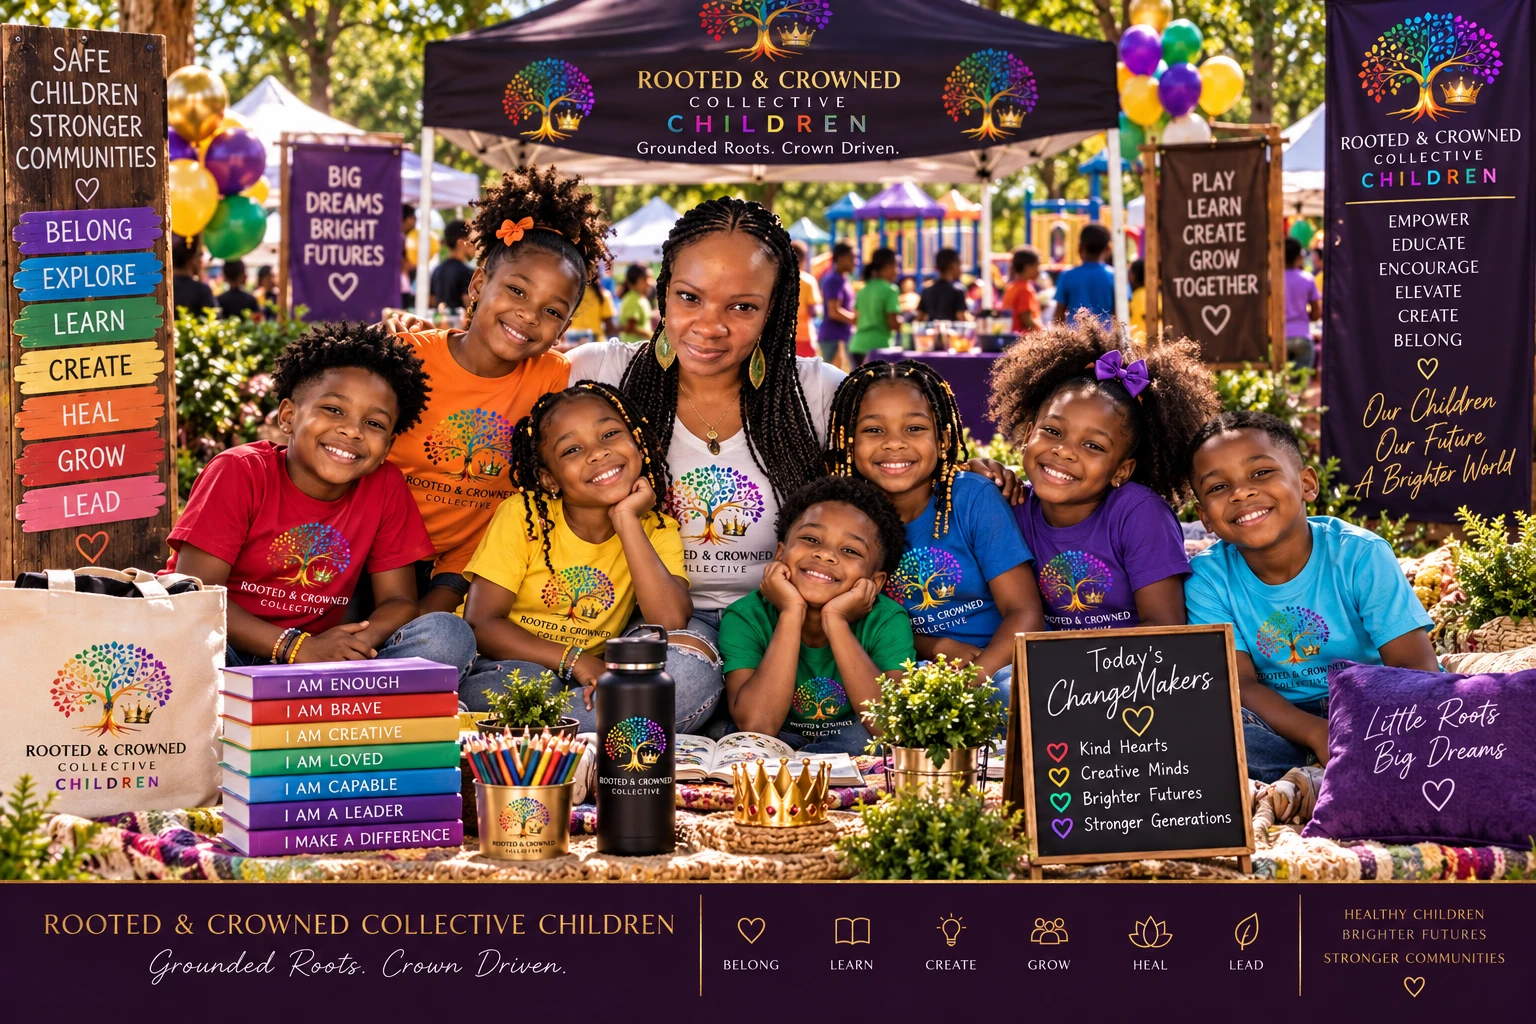
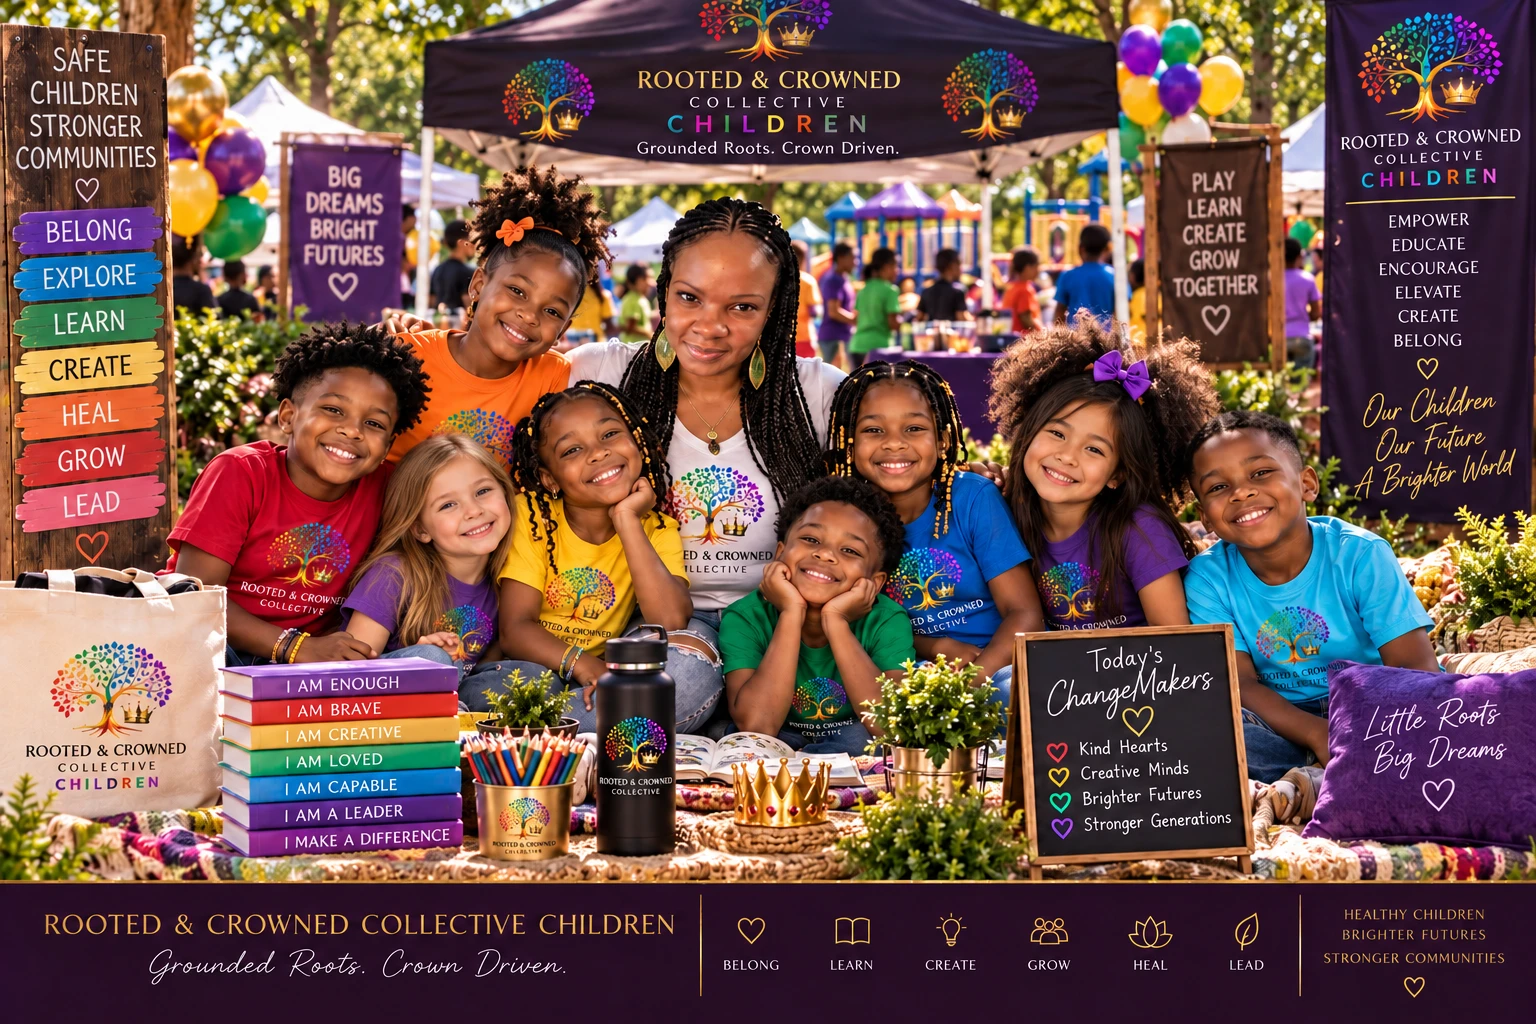
Replace Men's Collective and Children photos on Community page
Swap both branch photos for the new versions and update alt text to
match their content (Men's Collective group shot with the new shirt
slogans and banners; Children event photo with the new banners, sign,
and book stack).

diff --git a/public/index.html b/public/index.html
@@ -2058,7 +2058,7 @@ details.course-mod summary::-webkit-details-marker{display:none}
         <p class="script">Grounded Men. Crown-Driven Lives.</p>
       </div>
       <div style="display:grid;gap:22px">
-        <img class="media media--frame" src="assets/mens-collective.webp" alt="The Rooted and Crowned Collective Men's Collective: seven men laughing and talking together on a garden patio beneath banners reading Heal, Align, Build, Lead, Empower, Legacy and Stronger Men, Stronger Communities. The title reads Men's Collective, Grounded Men. Crown-Driven Lives. Below: Brotherhood, Growth, Purpose, Leadership, Financial Empowerment, Relationships, Well-Being, Legacy." width="1536" height="1024" loading="lazy">
+        <img class="media media--frame" src="assets/mens-collective.webp" alt="The Rooted and Crowned Collective Men's Collective: ten men laughing and talking together beneath banners reading Heal, Align, Build, Lead, Empower, Legacy and Stronger Men, Stronger Communities, Different Journeys, One Purpose. The title reads Men's Collective, Grounded Men. Crown-Driven Lives. Individual shirts read Discipline Purpose Progress Legacy, Purpose Over Distraction, Mentor Empower Educate Elevate, Lead With Purpose, Better Men Brighter Futures, and Honor Grow Build Impact. A sign reads Men Supporting Men, Stronger Together. Below: Brotherhood, Growth, Purpose, Leadership, Financial Empowerment, Relationships, Well-Being, Legacy." width="1536" height="1024" loading="lazy">
         <div class="seq"><span>HEAL</span><i>→</i><span>ALIGN</span><i>→</i><span>BUILD</span><i>→</i><span>LEAD</span><i>→</i><span>LEGACY</span></div>
         <div class="tags"><span class="tag">Brotherhood</span><span class="tag">Emotional awareness</span><span class="tag">Communication</span><span class="tag">Relationships</span><span class="tag">Purpose</span><span class="tag">Leadership</span><span class="tag">Legacy</span></div>
       </div>
@@ -2070,7 +2070,7 @@ details.course-mod summary::-webkit-details-marker{display:none}
         <p class="script">Today's Support. Tomorrow's Leaders.</p>
       </div>
       <div style="display:grid;gap:22px">
-        <img class="media media--frame" src="assets/community-children.webp" alt="Rooted and Crowned Children: smiling children in colorful Rooted and Crowned tees with an adult at a community event, surrounded by books, banners and balloons." width="1536" height="1024" loading="lazy">
+        <img class="media media--frame" src="assets/community-children.webp" alt="Rooted and Crowned Collective Children: eight smiling children in colorful Rooted and Crowned tees with Coach Kia at an outdoor community event, beside banners reading Safe Children Stronger Communities, Belong Explore Learn Create Heal Grow Lead, Big Dreams Bright Futures, Play Learn Create Grow Together, and Empower Educate Encourage Elevate Create Belong. A chalkboard reads Today's ChangeMakers: Kind Hearts, Creative Minds, Brighter Futures, Stronger Generations, with books reading I Am Enough, I Am Brave, I Am Creative, I Am Loved, I Am Capable, I Am a Leader, I Make a Difference." width="1536" height="1024" loading="lazy">
         <div class="seq"><span>PLAY</span><i>·</i><span>LEARN</span><i>·</i><span>HEAL</span><i>·</i><span>GROW</span><i>·</i><span>BELONG</span></div>
         <div class="tags"><span class="tag">Family resources</span><span class="tag">Educational support</span><span class="tag">Inclusion</span><span class="tag">Confidence</span><span class="tag">Emotional wellness</span><span class="tag">Community connection</span></div>
       </div>
